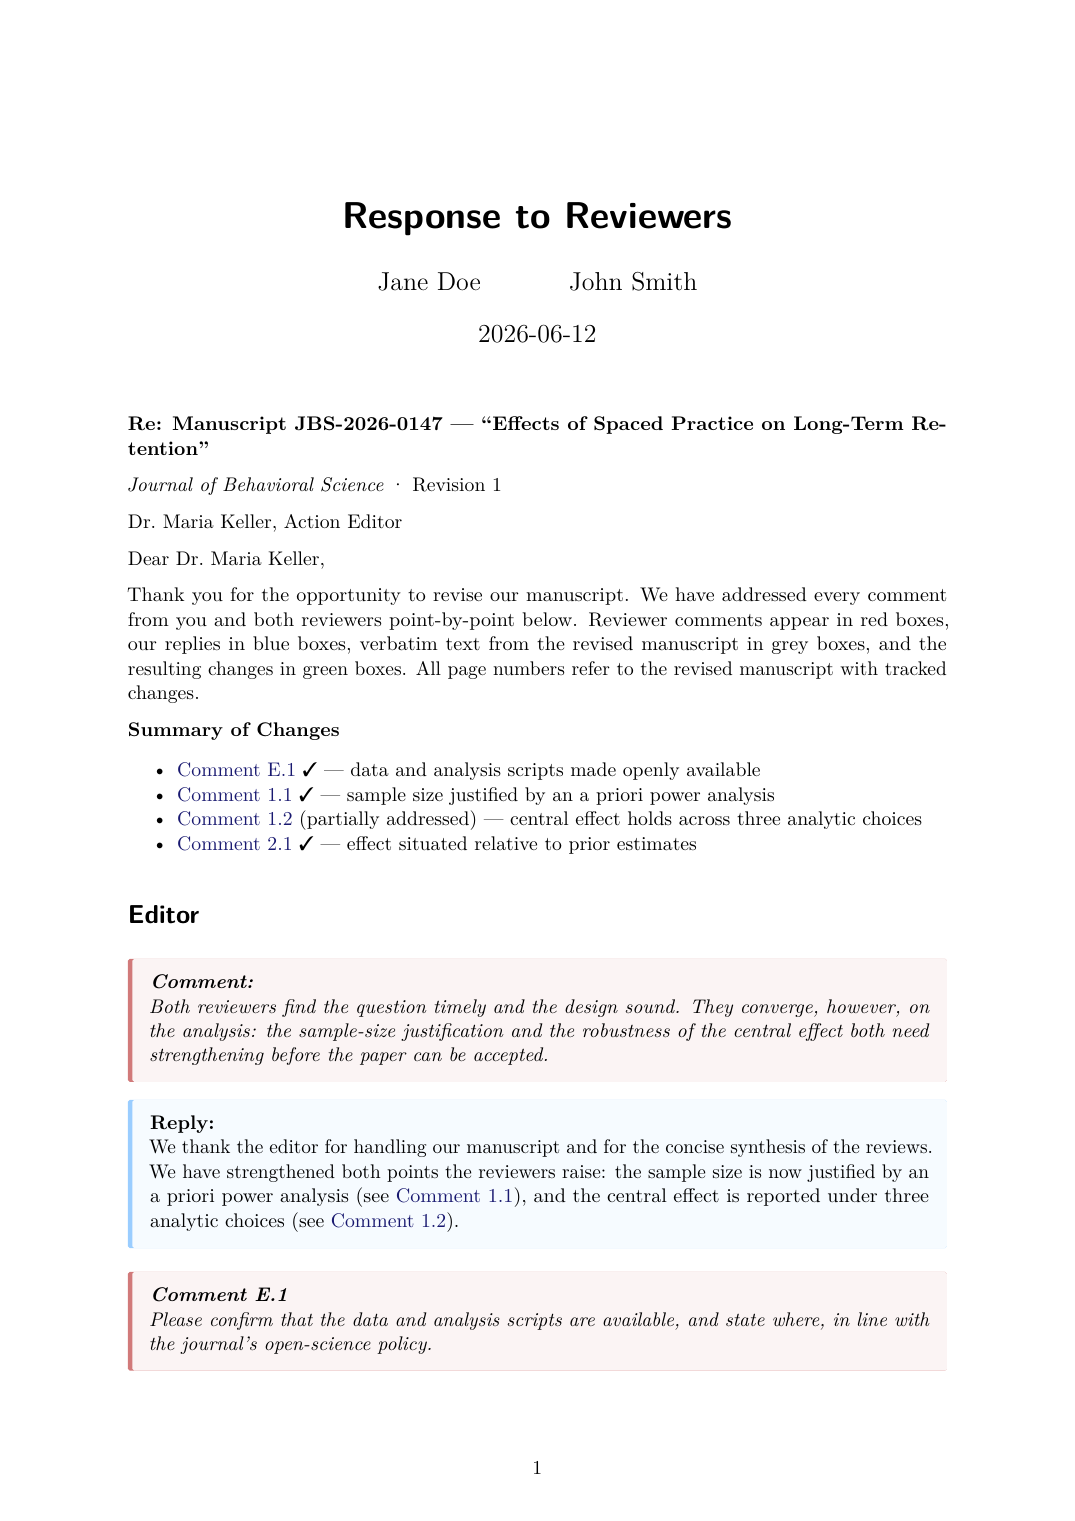
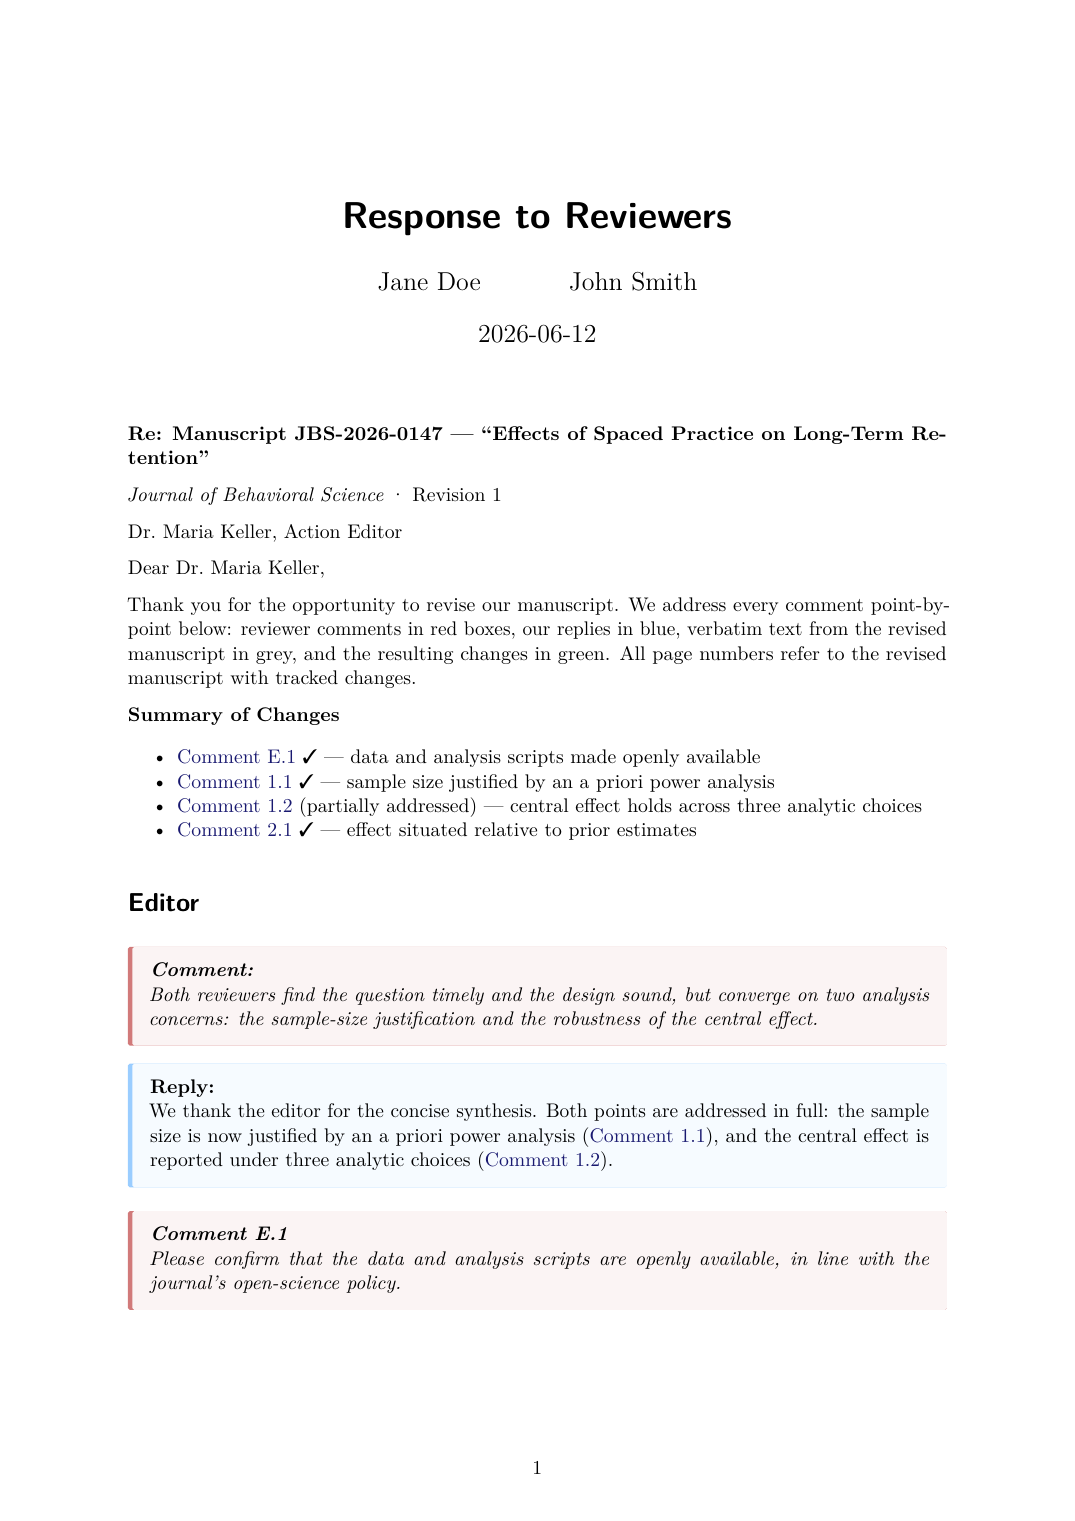
template: remove orphan page after editor section, refresh examples
Drop the pagebreak between the editor section and Reviewer 1 and tighten
the editor prose, so page 2 flows continuously instead of stranding a
single reply. Regenerate examples and README screenshots.

diff --git a/examples/example.html b/examples/example.html
@@ -2458,7 +2458,7 @@ margin: 0;
      reference. Optional add-ons not shown here: set `response-letter.colors`
      to retheme the boxes, `bibliography:`/`csl:` to cite literature inside
      replies, and `language:` to localize the labels for non-English letters. -->
-<p>Thank you for the opportunity to revise our manuscript. We have addressed every comment from you and both reviewers point-by-point below. Reviewer comments appear in red boxes, our replies in blue boxes, verbatim text from the revised manuscript in grey boxes, and the resulting changes in green boxes. All page numbers refer to the revised manuscript with tracked changes.</p>
+<p>Thank you for the opportunity to revise our manuscript. We address every comment point-by-point below: reviewer comments in red boxes, our replies in blue, verbatim text from the revised manuscript in grey, and the resulting changes in green. All page numbers refer to the revised manuscript with tracked changes.</p>
 <!-- The summary div is replaced at render with a linked list of every comment
      that carries a summary="..." attribute, together with its status. Place it
      where the summary belongs — conventionally right after this opening. Give
@@ -2484,30 +2484,30 @@ margin: 0;
 <div class="box-label box-label-comment">
 <p><strong>Comment:</strong></p>
 </div>
-<p>Both reviewers find the question timely and the design sound. They converge, however, on the analysis: the sample-size justification and the robustness of the central effect both need strengthening before the paper can be accepted.</p>
+<p>Both reviewers find the question timely and the design sound, but converge on two analysis concerns: the sample-size justification and the robustness of the central effect.</p>
 </div>
 <div class="reply">
 <div class="box-label box-label-reply">
 <p><strong>Reply:</strong></p>
 </div>
-<p>We thank the editor for handling our manuscript and for the concise synthesis of the reviews. We have strengthened both points the reviewers raise: the sample size is now justified by an a priori power analysis (see <a href="#cmt-1-1">Comment 1.1</a>), and the central effect is reported under three analytic choices (see <a href="#cmt-1-2">Comment 1.2</a>).</p>
+<p>We thank the editor for the concise synthesis. Both points are addressed in full: the sample size is now justified by an a priori power analysis (<a href="#cmt-1-1">Comment 1.1</a>), and the central effect is reported under three analytic choices (<a href="#cmt-1-2">Comment 1.2</a>).</p>
 </div>
 <div id="cmt-E-1" class="comment" data-summary="data and analysis scripts made openly available">
 <div class="box-label box-label-comment">
 <p><strong>Comment E.1</strong></p>
 </div>
-<p>Please confirm that the data and analysis scripts are available, and state where, in line with the journal’s open-science policy.</p>
+<p>Please confirm that the data and analysis scripts are openly available, in line with the journal’s open-science policy.</p>
 </div>
 <div class="reply status-done" data-status="done">
 <div class="box-label box-label-reply box-label-done">
 <p><strong>Reply ✓:</strong></p>
 </div>
-<p>The data and analysis scripts are openly available on the OSF (link in the manuscript). We now state this in a Data Availability statement (p. 18).</p>
+<p>Both are available on the OSF; we now say so in a Data Availability statement (p. 18).</p>
 </div>
-<div style="page-break-after: always;"></div>
-<!--  breaks the page in PDF and DOCX and is ignored in HTML.
-     Conventionally one between reviewers. Each plain `# Reviewer N` heading
-     starts the next reviewer and resets the comment counter to N.1. -->
+<!-- Each plain `# Reviewer N` heading starts the next reviewer and resets the
+     comment counter to N.1. Use  between reviewers (see below,
+     before Reviewer 2) to break the page in PDF and DOCX; it is ignored in
+     HTML. -->
 </section>
 <section id="reviewer-1" class="level1">
 <h1>Reviewer 1</h1>
